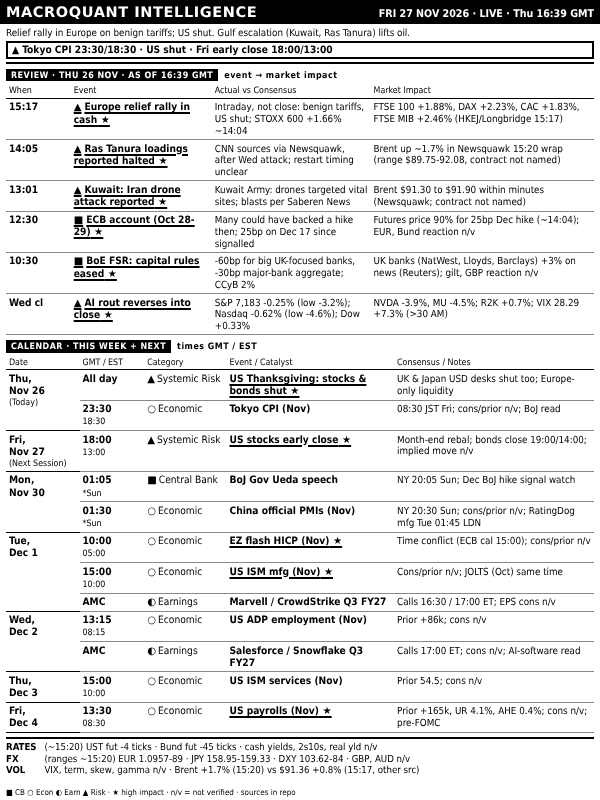
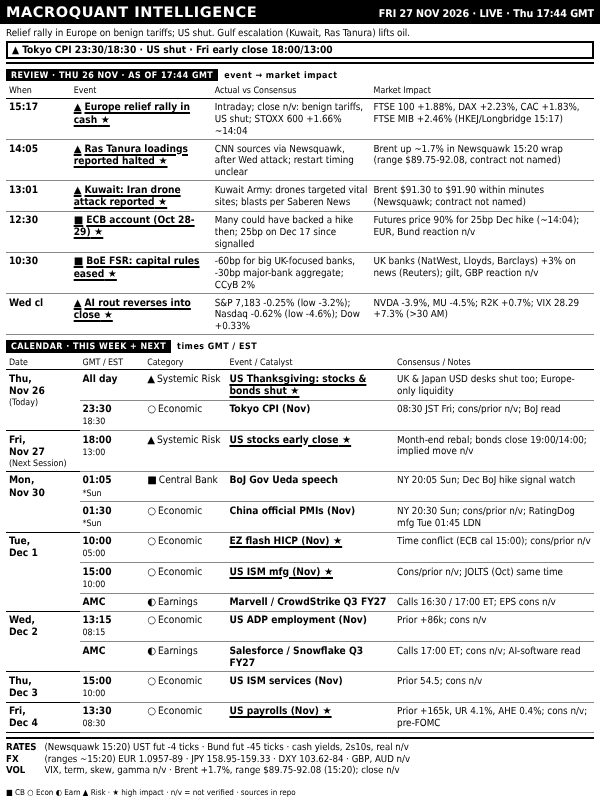
dashboard: FRI 27 NOV 2026 LIVE 17:44
Claude-Session: https://claude.ai/code/session_016SJqa6TZJ38sQ4jUCuT6sc

Changed region(s): [[0.09, 0.9062, 0.69, 0.9688], [0.42, 0.125, 0.6, 0.1562], [0.9, 0.0, 0.96, 0.0312]]

diff --git a/out/dashboard.html b/out/dashboard.html
@@ -38,12 +38,12 @@ table.bd{border-collapse:collapse;width:100%;table-layout:fixed;margin-top:1px}
 </style></head><body>
 <div id="root">
  <div class="hdr"><span class="t">MACROQUANT INTELLIGENCE</span>
-  <span class="r">FRI 27 NOV 2026 · LIVE · Thu 16:39 GMT</span></div>
+  <span class="r">FRI 27 NOV 2026 · LIVE · Thu 17:44 GMT</span></div>
  <div class="ban"><div class="rg">Relief rally in Europe on benign tariffs; US shut. Gulf escalation (Kuwait, Ras Tanura) lifts oil.</div><div class="al">▲ Tokyo CPI 23:30/18:30 · US shut · Fri early close 18:00/13:00</div></div>
- <div class="sl"><span>REVIEW · THU 26 NOV · AS OF 16:39 GMT</span>event → market impact</div><table class="bd rv"><colgroup><col style="width:11%"><col style="width:24%"><col style="width:27%"><col></colgroup><tr><th>When</th><th>Event</th><th>Actual vs Consensus</th><th>Market Impact</th></tr><tr class="h"><td class="tm"><b>15:17</b></td><td class="ev"><i>▲</i>Europe relief rally in cash</td><td class="ac">Intraday, not close: benign tariffs, US shut; STOXX 600 +1.66% ~14:04</td><td class="nt">FTSE 100 +1.88%, DAX +2.23%, CAC +1.83%, FTSE MIB +2.46% (HKEJ/Longbridge 15:17)</td></tr><tr class="h"><td class="tm"><b>14:05</b></td><td class="ev"><i>▲</i>Ras Tanura loadings reported halted</td><td class="ac">CNN sources via Newsquawk, after Wed attack; restart timing unclear</td><td class="nt">Brent up ~1.7% in Newsquawk 15:20 wrap (range $89.75-92.08, contract not named)</td></tr><tr class="h"><td class="tm"><b>13:01</b></td><td class="ev"><i>▲</i>Kuwait: Iran drone attack reported</td><td class="ac">Kuwait Army: drones targeted vital sites; blasts per Saberen News</td><td class="nt">Brent $91.30 to $91.90 within minutes (Newsquawk; contract not named)</td></tr><tr class="h"><td class="tm"><b>12:30</b></td><td class="ev"><i>■</i>ECB account (Oct 28-29)</td><td class="ac">Many could have backed a hike then; 25bp on Dec 17 since signalled</td><td class="nt">Futures price 90% for 25bp Dec hike (~14:04); EUR, Bund reaction n/v</td></tr><tr class="h"><td class="tm"><b>10:30</b></td><td class="ev"><i>■</i>BoE FSR: capital rules eased</td><td class="ac">-60bp for big UK-focused banks, -30bp major-bank aggregate; CCyB 2%</td><td class="nt">UK banks (NatWest, Lloyds, Barclays) +3% on news (Reuters); gilt, GBP reaction n/v</td></tr><tr class="h"><td class="tm"><b>Wed cl</b></td><td class="ev"><i>▲</i>AI rout reverses into close</td><td class="ac">S&amp;P 7,183 -0.25% (low -3.2%); Nasdaq -0.62% (low -4.6%); Dow +0.33%</td><td class="nt">NVDA -3.9%, MU -4.5%; R2K +0.7%; VIX 28.29 +7.3% (&gt;30 AM)</td></tr></table>
+ <div class="sl"><span>REVIEW · THU 26 NOV · AS OF 17:44 GMT</span>event → market impact</div><table class="bd rv"><colgroup><col style="width:11%"><col style="width:24%"><col style="width:27%"><col></colgroup><tr><th>When</th><th>Event</th><th>Actual vs Consensus</th><th>Market Impact</th></tr><tr class="h"><td class="tm"><b>15:17</b></td><td class="ev"><i>▲</i>Europe relief rally in cash</td><td class="ac">Intraday; close n/v: benign tariffs, US shut; STOXX 600 +1.66% ~14:04</td><td class="nt">FTSE 100 +1.88%, DAX +2.23%, CAC +1.83%, FTSE MIB +2.46% (HKEJ/Longbridge 15:17)</td></tr><tr class="h"><td class="tm"><b>14:05</b></td><td class="ev"><i>▲</i>Ras Tanura loadings reported halted</td><td class="ac">CNN sources via Newsquawk, after Wed attack; restart timing unclear</td><td class="nt">Brent up ~1.7% in Newsquawk 15:20 wrap (range $89.75-92.08, contract not named)</td></tr><tr class="h"><td class="tm"><b>13:01</b></td><td class="ev"><i>▲</i>Kuwait: Iran drone attack reported</td><td class="ac">Kuwait Army: drones targeted vital sites; blasts per Saberen News</td><td class="nt">Brent $91.30 to $91.90 within minutes (Newsquawk; contract not named)</td></tr><tr class="h"><td class="tm"><b>12:30</b></td><td class="ev"><i>■</i>ECB account (Oct 28-29)</td><td class="ac">Many could have backed a hike then; 25bp on Dec 17 since signalled</td><td class="nt">Futures price 90% for 25bp Dec hike (~14:04); EUR, Bund reaction n/v</td></tr><tr class="h"><td class="tm"><b>10:30</b></td><td class="ev"><i>■</i>BoE FSR: capital rules eased</td><td class="ac">-60bp for big UK-focused banks, -30bp major-bank aggregate; CCyB 2%</td><td class="nt">UK banks (NatWest, Lloyds, Barclays) +3% on news (Reuters); gilt, GBP reaction n/v</td></tr><tr class="h"><td class="tm"><b>Wed cl</b></td><td class="ev"><i>▲</i>AI rout reverses into close</td><td class="ac">S&amp;P 7,183 -0.25% (low -3.2%); Nasdaq -0.62% (low -4.6%); Dow +0.33%</td><td class="nt">NVDA -3.9%, MU -4.5%; R2K +0.7%; VIX 28.29 +7.3% (&gt;30 AM)</td></tr></table>
  <div class="sl"><span>CALENDAR · THIS WEEK + NEXT</span>times GMT / EST</div>
  <table class="bd"><colgroup><col style="width:12.5%"><col style="width:11%"><col style="width:14%"><col style="width:28.5%"><col></colgroup><tr><th>Date</th><th>GMT / EST</th><th>Category</th><th>Event / Catalyst</th><th>Consensus / Notes</th></tr><tr class="g0 h"><td class="dt" rowspan="2">Thu,<br>Nov&nbsp;26<span class="tg">(Today)</span></td><td class="tm"><b>All day</b></td><td class="ct"><i>▲</i>Systemic Risk</td><td class="ev">US Thanksgiving: stocks &amp; bonds shut</td><td class="nt">UK &amp; Japan USD desks shut too; Europe-only liquidity</td></tr><tr class=""><td class="tm"><b>23:30</b><span>18:30</span></td><td class="ct"><i>○</i>Economic</td><td class="ev">Tokyo CPI (Nov)</td><td class="nt">08:30 JST Fri; cons/prior n/v; BoJ read</td></tr><tr class="g0 h"><td class="dt" rowspan="1">Fri,<br>Nov&nbsp;27<span class="tg">(Next Session)</span></td><td class="tm"><b>18:00</b><span>13:00</span></td><td class="ct"><i>▲</i>Systemic Risk</td><td class="ev">US stocks early close</td><td class="nt">Month-end rebal; bonds close 19:00/14:00; implied move n/v</td></tr><tr class="g0"><td class="dt" rowspan="2">Mon,<br>Nov&nbsp;30</td><td class="tm"><b>01:05</b><span>*Sun</span></td><td class="ct"><i>■</i>Central Bank</td><td class="ev">BoJ Gov Ueda speech</td><td class="nt">NY 20:05 Sun; Dec BoJ hike signal watch</td></tr><tr class=""><td class="tm"><b>01:30</b><span>*Sun</span></td><td class="ct"><i>○</i>Economic</td><td class="ev">China official PMIs (Nov)</td><td class="nt">NY 20:30 Sun; cons/prior n/v; RatingDog mfg Tue 01:45 LDN</td></tr><tr class="g0 h"><td class="dt" rowspan="3">Tue,<br>Dec&nbsp;1</td><td class="tm"><b>10:00</b><span>05:00</span></td><td class="ct"><i>○</i>Economic</td><td class="ev">EZ flash HICP (Nov)</td><td class="nt">Time conflict (ECB cal 15:00); cons/prior n/v</td></tr><tr class="h"><td class="tm"><b>15:00</b><span>10:00</span></td><td class="ct"><i>○</i>Economic</td><td class="ev">US ISM mfg (Nov)</td><td class="nt">Cons/prior n/v; JOLTS (Oct) same time</td></tr><tr class=""><td class="tm"><b>AMC</b></td><td class="ct"><i>◐</i>Earnings</td><td class="ev">Marvell / CrowdStrike Q3 FY27</td><td class="nt">Calls 16:30 / 17:00 ET; EPS cons n/v</td></tr><tr class="g0"><td class="dt" rowspan="2">Wed,<br>Dec&nbsp;2</td><td class="tm"><b>13:15</b><span>08:15</span></td><td class="ct"><i>○</i>Economic</td><td class="ev">US ADP employment (Nov)</td><td class="nt">Prior +86k; cons n/v</td></tr><tr class=""><td class="tm"><b>AMC</b></td><td class="ct"><i>◐</i>Earnings</td><td class="ev">Salesforce / Snowflake Q3 FY27</td><td class="nt">Calls 17:00 ET; cons n/v; AI-software read</td></tr><tr class="g0"><td class="dt" rowspan="1">Thu,<br>Dec&nbsp;3</td><td class="tm"><b>15:00</b><span>10:00</span></td><td class="ct"><i>○</i>Economic</td><td class="ev">US ISM services (Nov)</td><td class="nt">Prior 54.5; cons n/v</td></tr><tr class="g0 h"><td class="dt" rowspan="1">Fri,<br>Dec&nbsp;4</td><td class="tm"><b>13:30</b><span>08:30</span></td><td class="ct"><i>○</i>Economic</td><td class="ev">US payrolls (Nov)</td><td class="nt">Prior +165k, UR 4.1%, AHE 0.4%; cons n/v; pre-FOMC</td></tr></table>
- <div class="lv"><div><b>RATES</b>(~15:20) UST fut -4 ticks · Bund fut -45 ticks · cash yields, 2s10s, real yld n/v</div><div><b>FX</b>(ranges ~15:20) EUR 1.0957-89 · JPY 158.95-159.33 · DXY 103.62-84 · GBP, AUD n/v</div><div><b>VOL</b>VIX, term, skew, gamma n/v · Brent +1.7% (15:20) vs $91.36 +0.8% (15:17, other src)</div></div>
+ <div class="lv"><div><b>RATES</b>(Newsquawk 15:20) UST fut -4 ticks · Bund fut -45 ticks · cash yields, 2s10s, real n/v</div><div><b>FX</b>(ranges ~15:20) EUR 1.0957-89 · JPY 158.95-159.33 · DXY 103.62-84 · GBP, AUD n/v</div><div><b>VOL</b>VIX, term, skew, gamma n/v · Brent +1.7%, range $89.75-92.08 (15:20); close n/v</div></div>
 </div>
 <div class="foot">■ CB ○ Econ ◐ Earn ▲ Risk · ★ high impact · n/v = not verified · sources in repo</div>
 </body></html>
